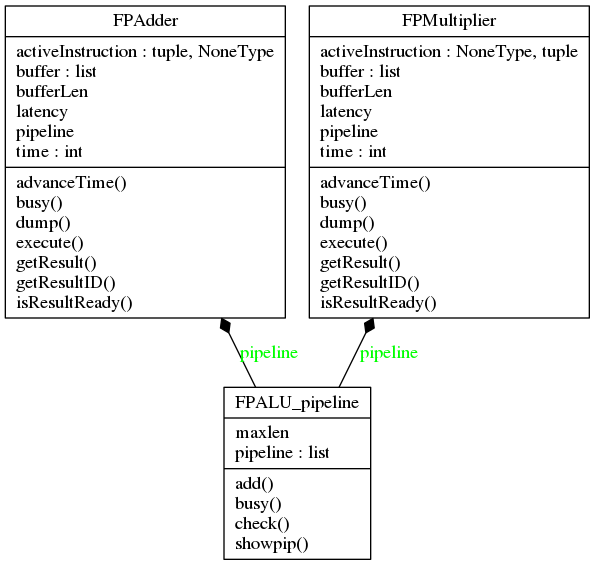
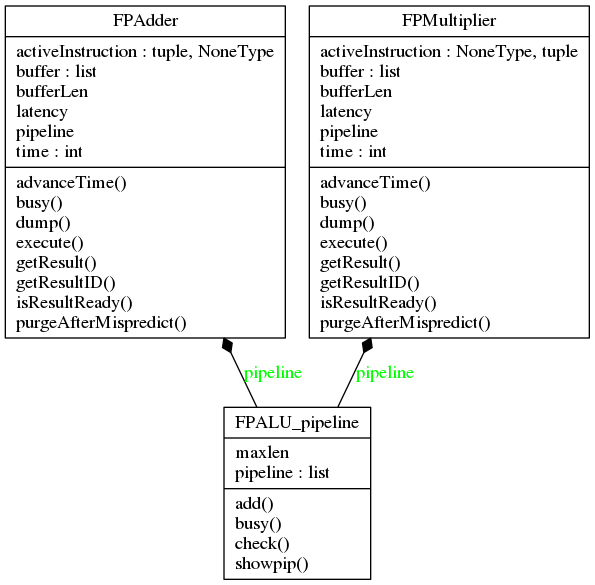
Updates UML and README

Changed region(s): [[0.0, 0.0, 0.9983, 0.9929]]

diff --git a/README.md b/README.md
@@ -51,7 +51,6 @@ Our software hierarchy is depicted below in the UML diagram.  To handle the requ
 - [x] Commit procedure
 
 ## Outstanding Test Cases
-- [ ] Simple ISA test case: Load/Store end-to-end
 - [ ] Addressing corner cases test
 - [ ] Verify memory disambiguation
 - [ ] Complex test case: write patterns to memory
